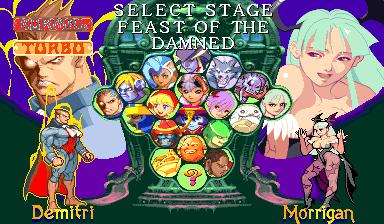
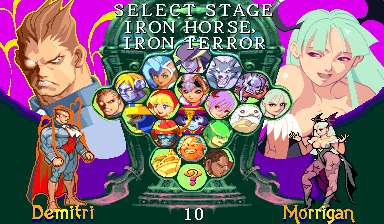
Language from the service menu, stage countdown, rematch stage
- The language is no longer forced: the LANGUAGE item of the system
  configuration offers Japanese and English, English by default. In
  Japanese, Jon Talbain, Rikuo and Sasquatch get their Vampire Savior
  Japanese win quotes, and the ending centres lines by language.
- The stage choice shows the seconds left at the bottom of the screen.
- The cursor of the stage choice starts on "?" for a new challenger and
  on the last stage chosen for a versus loser who continues.

Claude-Session: https://claude.ai/code/session_013Vje3pEtpLHubqCGwCgoQX

diff --git a/tools/build/versus_stage.py b/tools/build/versus_stage.py
@@ -8,9 +8,14 @@ number from 0 to 0x18, chosen as the VS screen starts.
 vsav2e lets the challenger choose it with the portraits of the select screen: after he
 has picked his character, his cursor stays on the grid and the top of the screen shows
 "SELECT STAGE" and, under it, the name of the stage of the character under the cursor
-(the stage where the one-player game fights that character). An attack button picks it; the "?" portrait keeps the
-game's random stage. Then the game goes on as after any choice (the speed menu, if the
-operator allows it, then the VS screen).
+(the stage where the one-player game fights that character), and at the bottom the
+seconds left. An attack button picks it, or the end of the ten seconds the portrait
+under the cursor; the "?" portrait keeps the game's random stage. Then the game goes on
+as after any choice (the speed menu, if the operator allows it, then the VS screen).
+
+Where the cursor starts: on the portrait of the last stage chosen when the challenger
+continues a versus he lost (he pressed start during his continue countdown: his `$383`
+is set), on "?" otherwise (a new challenger, or both players starting together).
 
 Who chooses: the player who joined last (`$8d(a5)`, the players who pressed start for
 this match, is 1 or 2), or, when both started the match together (3), the one of the two
@@ -32,9 +37,11 @@ buttons count; `$394`/`$396` the inputs now and the frame before):
 - the names are shown by a stage name object (class 07, kind 0x1a: the object of the
   one-player map screen), given vsav2e's own work on each frame: it draws the frame of
   the cell in the stage mode state, and removes itself when the state is cleared;
-- at the VS screen (`0x970a`) the chosen stage replaces the random one.
+- at the VS screen (`0x970a`) the chosen stage replaces the random one, and its cell is
+  kept for a rematch.
 
-The state lives in RAM that the game does not use (ff83f0-ff83f8, a5 + 0x3f0).
+The state lives in RAM that the game does not use: ff83f0-ff83f8 during the select
+screen, ff9000 and ff8c80 for the last stage chosen.
 """
 import struct
 
@@ -46,6 +53,13 @@ SAVED_CHARACTER = 0x3f3                 # byte: the chooser's character
 SAVED_BUTTONS = 0x3f4                   # word: the buttons that picked the character
 CHOSEN_STAGE = 0x3f6                    # word: the stage, or -1 for the random one
 CHOOSER = 0x3f8                         # byte: the chooser, 0 player 1, 1 player 2
+# kept from a match to the next, in bytes that the game never writes (checked across
+# select screens and fights; ff83f0 is cleared as a fight starts, and so is ff9001)
+LAST_VALID = 0x1000                     # byte: 1 once a stage has been chosen
+LAST_CELL = 0x0c80                      # byte: the cell of the last stage chosen
+# fields of a player object
+TIMER_SECONDS = 0x26
+CONTINUED = 0x383                       # set while the player plays on a continue
 
 # the select screen: the cursor routine of a player, the confirmation of a character
 CURSOR_ROUTINE = 0x1f5e6
@@ -118,6 +132,11 @@ SCREEN_Y_OFFSET = 216
 HEADER_TOP = 2
 NAME_TOP = 19
 MAX_LINE_WIDTH = 190
+# the seconds left: at the bottom, between the names of the two characters
+COUNTDOWN_TOP = 206
+NO_COUNTDOWN = STAGE_SECONDS + 1        # the row of frames without it (stage chosen)
+DIGIT_0 = 0x07a4                        # the digits of the font, 0 to 9
+DIGIT_STEP = 11                         # x from a digit to the next (narrower than letters)
 
 
 def encode_line(text):
@@ -136,13 +155,21 @@ def line_width(line):
     return line[-1][0] - line[0][0] + LETTER_STEP
 
 
-def letters_frame(lines):
+def digits_line(number):
+    """a number as a line of text"""
+    return [(DIGIT_STEP * index, DIGIT_0 + int(digit)) for index, digit in enumerate(str(number))]
+
+
+def letters_frame(lines, countdown=None):
     """A type 4 frame of lines of text (lists of (x, tile)), each centred, one under
     the other from the top of the screen: the first line at HEADER_TOP, the others from
-    NAME_TOP."""
+    NAME_TOP; then the countdown line, if any, at COUNTDOWN_TOP."""
+    placed = [(line, HEADER_TOP if index == 0 else NAME_TOP + LINE_HEIGHT * (index - 1))
+              for index, line in enumerate(lines)]
+    if countdown is not None:
+        placed.append((countdown, COUNTDOWN_TOP))
     records = []
-    for index, line in enumerate(lines):
-        top = HEADER_TOP if index == 0 else NAME_TOP + LINE_HEIGHT * (index - 1)
+    for line, top in placed:
         left = line[0][0]
         width = line_width(line)
         for x, tile in line:
@@ -285,7 +312,16 @@ def select_routines(stage_of_cell):
         '1b7c0001%04x' % STATE +                        # move.b  #1, STATE(a5)
         '1b41%04x' % CHOOSER +                          # move.b  d1, CHOOSER(a5)
         '1b6e0003%04x' % SAVED_CELL +                   # move.b  $3(a6), SAVED_CELL(a5)
-        '1b6e0003%04x' % STAGE_CELL +                   # move.b  $3(a6), STAGE_CELL(a5)
+        # the cursor starts on "?", or on the last stage for a player who continues
+        '74%02x' % RANDOM_CELL +                        # moveq   #random, d2
+        '4a2d%04x' % LAST_VALID +                       # tst.b   LAST_VALID(a5)
+        '670a'                                          # beq.s   start
+        '4a2e%04x' % CONTINUED +                        # tst.b   $383(a6)
+        '6704'                                          # beq.s   start
+        '142d%04x' % LAST_CELL +                        # move.b  LAST_CELL(a5), d2
+        # start:
+        '1d420003'                                      # move.b  d2, $3(a6)
+        '1b42%04x' % STAGE_CELL +                       # move.b  d2, STAGE_CELL(a5)
         '1b6e0382%04x' % SAVED_CHARACTER +              # move.b  $382(a6), SAVED_CHARACTER(a5)
         '3b40%04x' % SAVED_BUTTONS +                    # move.w  d0, SAVED_BUTTONS(a5)
         '1d7c%04x0026' % STAGE_SECONDS +                # move.b  #seconds, $26(a6)
@@ -304,11 +340,27 @@ def name_frame_routine(steps):
     """The stage name object's work on each frame."""
     return bytes.fromhex(
         '0c6e%04x%04x' % (MARK, MARK_FIELD) +           # cmpi.w  #MARK, MARK(a6)
-        '6638'                                          # bne.s   game
+        '6662'                                          # bne.s   game
         '4a2d%04x' % STATE +                            # tst.b   STATE(a5)
-        '6726'                                          # beq.s   remove
+        '6750'                                          # beq.s   remove
         '7200'                                          # moveq   #0, d1
         '122d%04x' % STAGE_CELL +                       # move.b  STAGE_CELL(a5), d1
+        # the row of steps: the chooser's seconds left in stage mode, else none
+        '74%02x' % NO_COUNTDOWN +                       # moveq   #no countdown, d2
+        '0c2d0001%04x' % STATE +                        # cmpi.b  #1, STATE(a5)
+        '661a'                                          # bne.s   row
+        '41ed0400'                                      # lea     $400(a5), a0     player 1
+        '4a2d%04x' % CHOOSER +                          # tst.b   CHOOSER(a5)
+        '6704'                                          # beq.s   chooser
+        '41ed0800'                                      # lea     $800(a5), a0     player 2
+        # chooser:
+        '1428%04x' % TIMER_SECONDS +                    # move.b  $26(a0), d2
+        '0c02%04x' % STAGE_SECONDS +                    # cmpi.b  #seconds, d2
+        '6302'                                          # bls.s   row
+        '74%02x' % STAGE_SECONDS +                      # moveq   #seconds, d2
+        # row:
+        'c4fc%04x' % CELLS +                            # mulu.w  #cells, d2
+        'd242'                                          # add.w   d2, d1
         'e749'                                          # lsl.w   #3, d1           8 bytes a step
         '41f9%08x' % steps +                            # lea     steps, a0
         'd0c1'                                          # adda.w  d1, a0
@@ -333,7 +385,12 @@ STAGE_APPLY_ROUTINE = bytes.fromhex(
     '4a6d%04x' % CHOSEN_STAGE +                         # tst.w   CHOSEN_STAGE(a5)
     '6b04'                                              # bmi.s   set              random
     '302d%04x' % CHOSEN_STAGE +                         # move.w  CHOSEN_STAGE(a5), d0
-    # set:
+    # set: the cell is kept for a rematch
+    '0c2d0002%04x' % STATE +                            # cmpi.b  #2, STATE(a5)
+    '660c'                                              # bne.s   clear
+    '1b6d%04x%04x' % (STAGE_CELL, LAST_CELL) +          # move.b  STAGE_CELL(a5), LAST_CELL(a5)
+    '1b7c0001%04x' % LAST_VALID +                       # move.b  #1, LAST_VALID(a5)
+    # clear:
     '422d%04x' % STATE +                                # clr.b   STATE(a5)
     '3b400100'                                          # move.w  d0, $100(a5)     as the game did
     '4e75')                                             # rts
@@ -354,12 +411,19 @@ def apply(vsav2e, extension, free_space_start, free_space_end):
     """Adds the stage choice to the vsav2e program (a bytearray); the frames go to the
     program extension. Returns the first free address of the program."""
     header = encode_line('SELECT STAGE')
-    frames = {RANDOM: extension.add(letters_frame([header, encode_line('RANDOM')]))}
+    name_lines = {RANDOM: [encode_line('RANDOM')]}
     for stage in sorted(set(STAGE_OF_CHARACTER.values())):
-        frames[stage] = extension.add(letters_frame([header] + wrap(stage_name_words(vsav2e, stage))))
-    # for each cell: an animation step (4 bytes, then the frame pointer), the stage
+        name_lines[stage] = wrap(stage_name_words(vsav2e, stage))
+    # a frame for each stage and each second left (the row NO_COUNTDOWN: none)
+    frames = {}
+    for stage, lines in name_lines.items():
+        for row in range(NO_COUNTDOWN + 1):
+            countdown = None if row == NO_COUNTDOWN else digits_line(row)
+            frames[stage, row] = extension.add(letters_frame([header] + lines, countdown))
+    # for each row and each cell: an animation step (4 bytes, then the frame pointer)
     stage_of_cell = [STAGE_OF_CHARACTER.get(cell, RANDOM) for cell in range(CELLS)]
-    steps = extension.add(b''.join(struct.pack('>II', 0, frames[stage]) for stage in stage_of_cell))
+    steps = extension.add(b''.join(struct.pack('>II', 0, frames[stage, row])
+                                   for row in range(NO_COUNTDOWN + 1) for stage in stage_of_cell))
     stages = extension.add(bytes(stage & 0xff for stage in stage_of_cell))
 
     select, confirm_offset = select_routines(stages)

diff --git a/tools/build/win_quotes.py b/tools/build/win_quotes.py
@@ -10,7 +10,10 @@ quotes of Vampire Savior, so their English quotes are taken as they are. The ste
   3. gives Jon Talbain, Rikuo and Sasquatch (not selectable in vsav2, their ids share
      another character's block) their own English quotes from `vsav`;
   4. writes the new master table in free ROM space and points the English, Spanish and
-     Portuguese entries of the language table at it.
+     Portuguese entries of the language table at it;
+  5. writes a Japanese master table too, vsav2's with the Japanese quotes of Jon
+     Talbain, Rikuo and Sasquatch from `vsav`, for the operator who chooses Japanese
+     (the two games write their quotes with the same codes).
 
 Characters with quotes written for Vampire Savior 2 (Huitzil, Pyron, Donovan) have no
 English in `vsav`: theirs is our translation, text/vsav2_win_quotes_en.py.
@@ -23,7 +26,7 @@ from cps2 import quotes
 
 # vsav2: the language table (4 long pointers) and its only, Japanese, master table
 VSAV2_LANGUAGE_TABLE = 0xf954
-ENGLISH, SPANISH, PORTUGUESE = 1, 2, 3
+JAPANESE, ENGLISH, SPANISH, PORTUGUESE = 0, 1, 2, 3
 
 # vsav (Europe): the master tables of the win quotes
 VSAV_JAPANESE_MASTER_TABLE = 0x32d196
@@ -70,10 +73,18 @@ def apply(vsav2_program, vsav_program, free_space_address, free_space_end):
                 untranslated_ids.append(character_id)
         english_blocks.append(block_cache[block_address])
 
-    data = quotes.encode_master_table(english_blocks)
-    if free_space_address + len(data) > free_space_end:
-        raise SystemExit('win quotes: no room')
-    vsav2_program[free_space_address:free_space_address + len(data)] = data
-    for language in (ENGLISH, SPANISH, PORTUGUESE):
-        struct.pack_into('>I', vsav2_program, VSAV2_LANGUAGE_TABLE + 4 * language, free_space_address)
-    return free_space_address + len(data), untranslated_ids
+    japanese_blocks = [savior_japanese[character_id] if character_id in ONLY_IN_SAVIOR_1
+                       else quotes.read_block(vsav2_program, block_address)
+                       for character_id, block_address in enumerate(
+                           quotes.read_master_table(vsav2_program, japanese_table_address))]
+
+    for blocks, languages in ((english_blocks, (ENGLISH, SPANISH, PORTUGUESE)),
+                              (japanese_blocks, (JAPANESE,))):
+        data = quotes.encode_master_table(blocks)
+        if free_space_address + len(data) > free_space_end:
+            raise SystemExit('win quotes: no room')
+        vsav2_program[free_space_address:free_space_address + len(data)] = data
+        for language in languages:
+            struct.pack_into('>I', vsav2_program, VSAV2_LANGUAGE_TABLE + 4 * language, free_space_address)
+        free_space_address += len(data) + (len(data) & 1)
+    return free_space_address, untranslated_ids

diff --git a/tools/build/story_text.py b/tools/build/story_text.py
@@ -31,11 +31,21 @@ DIALOGUE_LINE_LENGTH = 30
 
 
 # The ending centres each line by moving its start left by (letters - 1) * 8 pixels
-# (`asl.w #3, d0` at 0x8b246), right for the 16-pixel kanji but twice too much for the
-# Western letters, which advance 8 pixels: the shift becomes `asl.w #2, d0`.
-ENDING_CENTRING_SHIFT_ADDRESS = 0x8b246
-ENDING_CENTRING_SHIFT_ORIGINAL = bytes.fromhex('e740')     # asl.w #3, d0
-ENDING_CENTRING_SHIFT_WESTERN = bytes.fromhex('e540')      # asl.w #2, d0
+# (`move.w d5, d0` / `asl.w #3, d0` / `sub.w d0, $10(a6)` at 0x8b244), right for the
+# 16-pixel kanji but twice too much for the Western letters, which advance 8 pixels. The
+# language is chosen by the operator, so the three instructions become a call to a
+# routine that shifts by 4 pixels a letter, by 8 when the language ($93(a5)) is Japanese.
+ENDING_CENTRING_ADDRESS = 0x8b244
+ENDING_CENTRING_ORIGINAL = bytes.fromhex('3005e740916e0010')
+ENDING_CENTRING_ROUTINE = bytes.fromhex(
+    '3005'          # move.w  d5, d0           letters - 1
+    'e540'          # asl.w   #2, d0           4 pixels a letter
+    '4a2d0093'      # tst.b   $93(a5)          the language: 0 Japanese
+    '6602'          # bne.s   shift
+    'd040'          # add.w   d0, d0           8 pixels a kanji
+    # shift:
+    '916e0010'      # sub.w   d0, $10(a6)
+    '4e75')         # rts
 
 
 def latin_codes(vsav_program):
@@ -87,10 +97,13 @@ def check_same_shape(vsav2_program, table_address, blocks, name):
 def apply(vsav2_program, vsav_program, free_space_address, free_space_end):
     """writes the English tables at free_space_address; returns the address after them"""
     code_of = latin_codes(vsav_program)
-    end = ENDING_CENTRING_SHIFT_ADDRESS + len(ENDING_CENTRING_SHIFT_ORIGINAL)
-    if vsav2_program[ENDING_CENTRING_SHIFT_ADDRESS:end] != ENDING_CENTRING_SHIFT_ORIGINAL:
+    end = ENDING_CENTRING_ADDRESS + len(ENDING_CENTRING_ORIGINAL)
+    if vsav2_program[ENDING_CENTRING_ADDRESS:end] != ENDING_CENTRING_ORIGINAL:
         raise SystemExit('story text: unexpected code at the ending centring')
-    vsav2_program[ENDING_CENTRING_SHIFT_ADDRESS:end] = ENDING_CENTRING_SHIFT_WESTERN
+    vsav2_program[free_space_address:free_space_address + len(ENDING_CENTRING_ROUTINE)] = ENDING_CENTRING_ROUTINE
+    vsav2_program[ENDING_CENTRING_ADDRESS:end] = (b'\x4e\xb9' + struct.pack('>I', free_space_address)
+                                                  + b'\x4e\x71')      # jsr routine / nop
+    free_space_address += len(ENDING_CENTRING_ROUTINE)
     for language_table, name, maximum_line_length, blocks in (
             (ENDINGS_LANGUAGE_TABLE, 'endings', ENDING_LINE_LENGTH,
              [vsav2_story_en.ENDING, vsav2_story_en.ENDING_JEDAH]),

diff --git a/tools/build/build.py b/tools/build/build.py
@@ -15,11 +15,19 @@ REGION_EUROPE = 0x000a
 
 # The language of the win quotes and endings is a byte of the operator settings (copied
 # to $93(a5) at 0x1a5c by `move.b $8(a4), $93(a5)`): 0 Japanese, 2 English, 4 Spanish,
-# 6 Portuguese. Vampire Savior 2 has no menu to change it, so the copy is replaced by
-# `move.b #2, $93(a5)`: always English.
-LANGUAGE_COPY_ADDRESS = 0x1a5c
-LANGUAGE_COPY_ORIGINAL = bytes.fromhex('1b6c00080093')
-LANGUAGE_ALWAYS_ENGLISH = bytes.fromhex('1b7c00020093')
+# 6 Portuguese, chosen in the service menu (7. CONFIGURATION, LANGUAGE). Europe's factory
+# setting is English; Spanish and Portuguese show the English texts.
+#
+# The menu item (0xe57a) goes through the word $92(a5) (the high byte 0, the language
+# low) from d1 = 2 to 4: English and Spanish. vsav2e offers Japanese and English: the
+# lowest choice becomes 0, the highest 2, and the test that wraps below the lowest
+# becomes signed (`bcc` -> `bpl`), as 0 - 2 is not below 0 unsigned.
+LANGUAGE_MENU_PATCHES = (
+    (0xe584, '7202', '7200'),           # moveq #2, d1         lowest choice: Japanese
+    (0xe594, '6402', '6a02'),           # bcc.s -> bpl.s       below the lowest: wrap
+    (0xe596, '7404', '7402'),           # moveq #4, d2         to the highest: English
+    (0xe5a0, '0c420004', '0c420002'),   # cmpi.w #4, d2        above the highest: wrap
+)
 
 # The decrypted set carries the "Phoenix Edition" boot menu (code at 0xff000, called at
 # 0x110c right after the region is set). It reads its own region choice from the EEPROM
@@ -59,10 +67,11 @@ def build(rom_directory, captures_directory):
 
     struct.pack_into('>H', vsav2e, REGION_WORD_ADDRESS, REGION_EUROPE)
 
-    end = LANGUAGE_COPY_ADDRESS + len(LANGUAGE_COPY_ORIGINAL)
-    if vsav2e[LANGUAGE_COPY_ADDRESS:end] != LANGUAGE_COPY_ORIGINAL:
-        raise SystemExit('unexpected code at the language copy: not the vsav2d program')
-    vsav2e[LANGUAGE_COPY_ADDRESS:end] = LANGUAGE_ALWAYS_ENGLISH
+    for address, original, patched in LANGUAGE_MENU_PATCHES:
+        original, patched = bytes.fromhex(original), bytes.fromhex(patched)
+        if vsav2e[address:address + len(original)] != original:
+            raise SystemExit('unexpected code at the language menu 0x%x' % address)
+        vsav2e[address:address + len(patched)] = patched
 
     end = PHOENIX_MENU_CALL_ADDRESS + len(PHOENIX_MENU_CALL_ORIGINAL)
     if vsav2e[PHOENIX_MENU_CALL_ADDRESS:end] != PHOENIX_MENU_CALL_ORIGINAL:

diff --git a/docs/text.md b/docs/text.md
@@ -9,7 +9,7 @@ and kept the machinery, but only the Japanese data.
 | What | vsav2 | Notes |
 |---|---|---|
 | Region | `move.w #region, $90(a5)` at `0x10cc` (RAM `ff8090`) | 0 Japan, 2 USA, 4 Hispanic, 6 Oceania, 8 Asia, 0xa Europe, 0xc Brazil. An immediate in the code, so it is encrypted in the original set: vsav2e is built on the decrypted `vsav2d`. Changing it already gives the region's warning screen and system messages (all seven are still in the ROM). |
-| Language | `$93(a5)` (RAM `ff8093`), copied from the operator settings at `0x1a5c` | 0 Japanese, 2 English, 4 Spanish, 6 Portuguese. vsav2e forces 2. |
+| Language | `$93(a5)` (RAM `ff8093`), copied from the operator settings at `0x1a5c` | 0 Japanese, 2 English, 4 Spanish, 6 Portuguese. Chosen in the service menu (7. CONFIGURATION, 1. SYSTEM, LANGUAGE): vsav2e offers Japanese and English, English by default. |
 | Win quotes | language table at `0xf954` (4 long pointers, all to `0x9ca24`), used at `0xb146` | format in `tools/cps2/quotes.py` |
 
 ## Win quotes
@@ -20,7 +20,9 @@ Portuguese follow the same layout further on). 33 character ids, 16 quotes each.
 Twelve characters of vsav2 have exactly Vampire Savior's Japanese quotes, so the English
 ones are copied as they are (`tools/build/win_quotes.py`); ids `02`, `09`, `0a` (Jon
 Talbain, Rikuo, Sasquatch) get their Vampire Savior quotes too, ready for the full
-roster. Ids `10`, `11`, `13` (Huitzil, Pyron, Donovan) have quotes written for Vampire
+roster, and in Japanese their Vampire Savior Japanese quotes (vsav2 had another
+character's there; the two games write the quotes with the same codes, and the kanji are
+in vsav2's font). Ids `10`, `11`, `13` (Huitzil, Pyron, Donovan) have quotes written for Vampire
 Savior 2, never translated by Capcom for the arcade: the English is ours, in
 `text/vsav2_win_quotes_en.py` (same number of lines as each Japanese quote; the font has
 no digits, no `:` and no Q, X, Z).
@@ -46,8 +48,16 @@ the English is ours, in `text/vsav2_story_en.py`, written by `tools/build/story_
   screen at once; the limit is somewhere in between). Other lines at most 30.
 - The ending renderer (object code at `0x8b1fc`) starts each line (letters - 1) * 8
   pixels left of the centre (`asl.w #3, d0` at `0x8b246`): right for the 16-pixel kanji,
-  twice too much for the Western letters, which advance 8 pixels. vsav2e makes it
-  `asl.w #2, d0`, so the lines are centred.
+  twice too much for the Western letters, which advance 8 pixels. vsav2e replaces the
+  shift with a call that shifts by 4 pixels a letter, by 8 in Japanese, so the lines are
+  centred in both.
+
+## The language menu
+
+The LANGUAGE item of the system configuration (`0xe57a`) changes the word `$92(a5)`
+between 2 and 4 (English and Spanish), though its names list Japanese and Portuguese
+too. vsav2e makes it go between 0 and 2: Japanese and English. Spanish and Portuguese,
+if an EEPROM already holds them, show the English texts.
 
 ## Region: what else it changes
 
@@ -65,7 +75,8 @@ the English is ours, in `text/vsav2_story_en.py`, written by `tools/build/story_
 
 Warning, attract mode, title, character select, VS screen, fight (HUD, READY, FIGHT,
 K.O., PERFECT, bonus), win quotes, continue, game over, score ranking, both endings,
-credits: no Japanese left, and nothing Japanese is drawn in the graphics. Character
+credits: no Japanese left in English, and nothing Japanese is drawn in the graphics.
+In Japanese: win quotes (Jon Talbain's too) and the ending, centred. Character
 ids for tests: `0f` Jedah, `10` Huitzil, `11` Pyron, `13` Donovan; `12` is a dark
 Talbain still in the game.
 

diff --git a/docs/versus.md b/docs/versus.md
@@ -3,13 +3,17 @@
 In a match between two players (both started, or one joined in), the challenger picks the
 stage on the select screen. After he has picked his character, his cursor stays on the
 grid: the top of the screen shows SELECT STAGE and the name of the stage of the portrait
-under the cursor, the stage where the one-player game fights that character. An attack
-button picks it (or the end of the timer, ten seconds); the "?" portrait keeps the stage
-the game picks at random. The game then goes on as usual (the speed menu, if the operator
+under the cursor, the stage where the one-player game fights that character; at the
+bottom, the seconds left. An attack button picks it; when the ten seconds end, the stage
+under the cursor is taken. The "?" portrait keeps the stage the game picks at random. The game then goes on as usual (the speed menu, if the operator
 allows it, then the VS screen).
 
 The challenger is the player who joined last; when both started the match together, the
 second of the two to pick a character.
+
+The cursor starts on "?" for a new challenger (and when both start together), and on
+the last stage chosen when the challenger is the loser of a versus who continues (he
+pressed start during his continue countdown).
 
 | Portrait | Stage |
 |---|---|
@@ -40,7 +44,8 @@ The code and how the game does it: `tools/build/versus_stage.py`.
 | Navigation | `0x1fe2c` joystick bits -> direction, `0x1588e` 8 bytes a cell: the cell in each direction |
 | Stage names | frames of type 4 (letters), pointers at `0x2a0a96` + 2 * stage; letter A is tile 0x49b1 |
 | VS screen | scene at `0x8a9c`: `$e(a5)` frames (0x3c, then 0x7f), ended early by `0x9526` (any button; for player 2 any input) |
-| vsav2e's state | RAM ff83f0-ff83f8, unused by the game: see `versus_stage.py` |
+| vsav2e's state | RAM ff83f0-ff83f8 during the select screen (the game clears it as fights start), ff9000 and ff8c80 for the last stage chosen: see `versus_stage.py` |
+| Continue | player `$38c` the continue countdown, `$383` set when the player continued (cleared when he loses) |
 | Players' input | `$58(a5)`/`$5a(a5)` player 1 now/before, `$5c`/`$5e` player 2; in a player object, `$394` now and `$396` before (bit 0 right, bit 1 left) |
 | Players together | `$ac(a5)`: bit 0 player 1, bit 1 player 2 |
 

diff --git a/README.md b/README.md
@@ -43,7 +43,10 @@ screen with all 18, laid out like the PlayStation game's (`docs/roster.md`).
 Names: the Western ones (Jon Talbain, Rikuo, Lord Raptor, B.B. Hood, Hsien-Ko, Huitzil).
 
 Versus: after picking his character, the challenger picks the stage with the portraits
-(each character's stage; "?" random; `docs/versus.md`).
+(each character's stage; "?" random; ten seconds; a loser who continues starts from the
+last stage; `docs/versus.md`).
+
+Language: English by default, Japanese from the service menu (`docs/text.md`).
 
 ![](screenshots/versus_stage_select.png)
 
